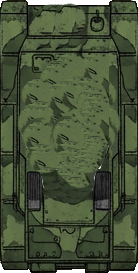
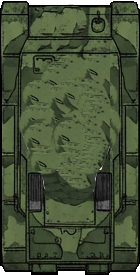
working on updating tank visuals

diff --git a/src/GameDemo/RTSDemo/Units/TankUnit.java b/src/GameDemo/RTSDemo/Units/TankUnit.java
@@ -40,7 +40,7 @@ public class TankUnit extends RTSUnit {
     public static double speed = RTSGame.tickAdjust(2.15);
 
     public Turret turret;
-    public final static double VISUAL_SCALE = 1.10;
+    public final static double VISUAL_SCALE = .4;
     public long weaponCooldownExpiresAtTick = 0;
     public long lastTickTakenDamage = 0;
     public boolean sandbagActive = false;
@@ -110,8 +110,8 @@ public class TankUnit extends RTSUnit {
         deathShadow = new Sprite(RTSAssetManager.tankDeadHullShadow);
         deathFadeout = Sequence.createFadeout(RTSAssetManager.tankDeadHullShadow, 40);
         deathFadeout.setSignature("fadeout");
-        shadow = new Sprite(RTSAssetManager.tankShadow);
-        turretShadow = new Sprite(RTSAssetManager.tankTurretShadow);
+        shadow = Sprite.generateShadowSprite(RTSAssetManager.tankChasis, .8); // new Sprite(RTSAssetManager.tankShadow);
+        turretShadow = Sprite.generateShadowSprite(RTSAssetManager.tankTurret, .8); // new Sprite(RTSAssetManager.tankTurretShadow);
 
         tankHullDamagedGreen = new Sprite(RTSAssetManager.tankHullDamaged);
         tankTurretDamagedGreen = new Sprite(RTSAssetManager.tankTurretDamaged);
@@ -136,6 +136,16 @@ public class TankUnit extends RTSUnit {
         sandbagDamagedSprite = new Sprite(RTSAssetManager.sandbagsForTankDamaged, "sandbagsForTankDamaged");
         
         sandbagShadow = Sprite.generateShadowSprite(RTSAssetManager.sandbagsForTank, .7);
+        
+        shadow.applyAlphaEdgeBlurSelf(8);
+        turretShadow.applyAlphaEdgeBlurSelf(3);
+        chasisSpriteGreen.applyAlphaEdgeBlurSelf(1);
+        chasisSpriteRed.applyAlphaEdgeBlurSelf(1);
+        turretSpriteGreen.applyAlphaEdgeBlurSelf(1);
+        turretSpriteRed.applyAlphaEdgeBlurSelf(1);
+        turretFireAnimationGreen.applyAlphaEdgeBlurSelf(1);
+        turretFireAnimationRed.applyAlphaEdgeBlurSelf(1);
+
 
         List.of(
                 deathShadow,
@@ -152,9 +162,6 @@ public class TankUnit extends RTSUnit {
 
     @Override
     public void onAnimationCycle() {
-        if ("tankDeathAniHull".equals(getGraphic().getSignature())) {
-            this.setGraphic(rubbleHullSprite);
-        }
         if ("fadeout".equals(getGraphic().getSignature())) {
             this.isInvisible = true;
         }
@@ -216,13 +223,13 @@ public class TankUnit extends RTSUnit {
     @Override
     public int getWidth() {
         // consistent width so that width is not tied to animation frame
-        return chasisSpriteGreen.getWidth();
+        return (int)(chasisSpriteGreen.getWidth() * VISUAL_SCALE);
     }
 
     @Override
     public int getHeight() {
         // consistent height so that width is not tied to animation frame
-        return chasisSpriteGreen.getHeight();
+        return (int)(chasisSpriteGreen.getHeight() * VISUAL_SCALE);
     }
 
     /*
@@ -247,6 +254,8 @@ public class TankUnit extends RTSUnit {
         isSolid = true;
         preventOverlap = true;
         setScale(VISUAL_SCALE);
+        turretShadow.scaleTo(VISUAL_SCALE);
+        shadow.scaleTo(VISUAL_SCALE);
         Sprite chassSprite = getHullSprite();
         this.setGraphic(chassSprite);
         this.movementType = MovementType.RotationBased;
@@ -257,6 +266,7 @@ public class TankUnit extends RTSUnit {
         this.currentHealth = maxHealth;
         this.baseSpeed = speed;
         initializeButtons();
+        this.rotationSpeed = RTSGame.tickAdjust(2);
     }
 
     private void initializeButtons() {
@@ -371,7 +381,6 @@ public class TankUnit extends RTSUnit {
             if (isRubble) {
                 setGraphic(rubbleTurretSprite);
             }
-
         }
 
         //tank turret tick
@@ -405,7 +414,7 @@ public class TankUnit extends RTSUnit {
                 }
             } else {
                 double desiredRotation = rotationNeededToFace(enemy.getPixelLocation());
-                double maxRotation = RTSGame.tickAdjust(5);
+                double maxRotation = RTSGame.tickAdjust(2);
                 if (Math.abs(desiredRotation) < maxRotation) {
                     rotate(desiredRotation);
                 } else {
@@ -428,8 +437,8 @@ public class TankUnit extends RTSUnit {
                 VolatileImage toRender = turretShadow.getCurrentVolatileImage();
                 int renderX = getPixelLocation().x - toRender.getWidth() / 2;
                 int renderY = getPixelLocation().y - toRender.getHeight() / 2;
-                int shadowOffsetY = 3;
-                int shadowOffsetX = 1;
+                int shadowOffsetY = 4;
+                int shadowOffsetX = 2;
                 g.rotate(Math.toRadians(getRotationRealTime()), getPixelLocation().x + shadowOffsetX, getPixelLocation().y + shadowOffsetY);
                 g.drawImage(toRender, renderX, renderY + shadowOffsetY, null);
                 g.setTransform(old);
@@ -487,8 +496,8 @@ public class TankUnit extends RTSUnit {
         this.team = -1;
         this.setBaseSpeed(0);
         this.setDesiredLocation(this.getPixelLocation());
-        this.setGraphic(deathAnimationHull.copyMaintainSource());
-        turret.setGraphic(deathAnimationTurret.copyMaintainSource());
+        this.setGraphic(rubbleHullSprite);
+        turret.setGraphic(rubbleTurretSprite);
         if(isOnScreen()) {
             RTSSoundManager.get().play(RTSSoundManager.TANK_DEATH, Main.generateRandomDoubleLocally(.62, .66), 0);
         }

diff --git a/src/Framework/GraphicalAssets/Graphic.java b/src/Framework/GraphicalAssets/Graphic.java
@@ -18,6 +18,8 @@ import java.awt.Transparency;
 import java.awt.geom.AffineTransform;
 import java.awt.image.AffineTransformOp;
 import java.awt.image.BufferedImage;
+import java.awt.image.ConvolveOp;
+import java.awt.image.Kernel;
 import java.awt.image.VolatileImage;
 import java.io.File;
 import java.io.IOException;
@@ -120,7 +122,9 @@ public interface Graphic {
     public void setOpacity(double input);
     
     public double getOpacity();
-
+    
+    /* blurs the transparent bits and edges of image */
+    public void applyAlphaEdgeBlurSelf (int strength);
     
     /**
      * returns a scaled copy of the image
@@ -336,4 +340,68 @@ public interface Graphic {
         }
 
     }
+    
+    
+    
+    private static float[] createGaussianKernel(int radius) {
+        int size = radius * 2 + 1;
+        float[] data = new float[size * size];
+
+        float sigma = radius / 2f;
+        float sum = 0f;
+        int index = 0;
+
+        for (int y = -radius; y <= radius; y++) {
+            for (int x = -radius; x <= radius; x++) {
+                float value = (float) Math.exp(-(x * x + y * y) / (2 * sigma * sigma));
+                data[index++] = value;
+                sum += value;
+            }
+        }
+
+        // Normalize kernel
+        for (int i = 0; i < data.length; i++) {
+            data[i] /= sum;
+        }
+
+        return data;
+    }
+    
+       public static BufferedImage applyAlphaEdgeBlur(BufferedImage input, int strength) {
+
+        if (strength <= 0) return input;
+
+        int padding = strength;
+        int newW = input.getWidth() + padding * 2;
+        int newH = input.getHeight() + padding * 2;
+
+        
+        BufferedImage expanded = new BufferedImage(
+                newW,
+                newH,
+                BufferedImage.TYPE_INT_ARGB
+        );
+
+        Graphics2D g = expanded.createGraphics();
+        g.drawImage(input, padding, padding, null);
+        g.dispose();
+
+        int size = strength * 2 + 1;
+        float[] data = createGaussianKernel(strength);
+
+        Kernel kernel = new Kernel(size, size, data);
+
+        ConvolveOp op = new ConvolveOp(kernel, ConvolveOp.EDGE_ZERO_FILL, null);
+
+        BufferedImage blurred = new BufferedImage(
+                newW,
+                newH,
+                BufferedImage.TYPE_INT_ARGB
+        );
+
+        op.filter(expanded, blurred);
+
+        return blurred;
+    }
+
 }

diff --git a/src/GameDemo/RTSDemo/RTSAssetManager.java b/src/GameDemo/RTSDemo/RTSAssetManager.java
@@ -147,25 +147,25 @@ public abstract class RTSAssetManager {
 
     private static CompletableFuture<Void> loadTankAssets() {
         return CompletableFuture.runAsync(() -> {
-            tankChasis = load("DemoAssets/TankGame/tank1-hull.png");
+            tankChasis = load("DemoAssets/TankGame/newTank/newHull2.png");
             tankChasisRed = greenToRed(tankChasis);
-            tankTurret = load("DemoAssets/TankGame/tank1-turret.png");
+            tankTurret = load("DemoAssets/TankGame/newTank/newTurret.png");
             tankTurretRed = greenToRed(tankTurret);
             tankTurretShadow = load("DemoAssets/TankGame/tank1-turret-shadow.png");
-            tankFireAnimation = loadSequence("DemoAssets/TankGame/tank1Fire");
+            tankFireAnimation = loadSequence("DemoAssets/TankGame/newTank/fireAnimation");
             tankFireAnimationRed = greenToRed(tankFireAnimation);
             bullet = load("DemoAssets/TankGame/bullet.png");
             bullet2 = load("DemoAssets/TankGame/bullet2.png");
-            tankDeadHull = load("DemoAssets/TankGame/destroyedHull.png");
             tankDeadHullShadow = load("DemoAssets/TankGame/destroyedHullShadow.png");
             tankShadow = load("DemoAssets/TankGame/tankShadow.png");
-            tankHullDamaged = load("DemoAssets/TankGame/tankHullDamaged.png");
+            tankHullDamaged = load("DemoAssets/TankGame/newTank/newHull2Damaged.png");
             tankHullDamagedRed = greenToRed(tankHullDamaged);
-            tankTurretDamaged = load("DemoAssets/TankGame/tankTurretDamaged.png");
+            tankTurretDamaged = load("DemoAssets/TankGame/newTank/newTurretDamaged.png");
             tankTurretDamagedRed = greenToRed(tankTurretDamaged);
             tankFireAnimationDamaged = loadSequence("DemoAssets/TankGame/tank1FireDamaged");
             tankFireAnimationDamagedRed = greenToRed(tankFireAnimationDamaged);
-            tankDeadTurret = load("DemoAssets/TankGame/destroyedTurret.png");
+            tankDeadTurret = load("DemoAssets/TankGame/newTank/newTurretRubble.png");
+            tankDeadHull = load("DemoAssets/TankGame/newTank/newHullRubble.png");
             tankHullDeathAni = loadSequence("DemoAssets/TankGame/tankHullDeath");
             tankTurretDeathAni = loadSequence("DemoAssets/TankGame/tankTurretDeath");
             sandbagsForTank = load("DemoAssets/TankGame/sandbagsForTank.png");

diff --git a/src/GameDemo/RTSDemo/AssetExporter.java b/src/GameDemo/RTSDemo/AssetExporter.java
@@ -1,6 +1,6 @@
 package GameDemo.RTSDemo;
 
-import static Framework.GraphicalAssets.Graphic.load;
+import Framework.PathingLayer;
 import javax.imageio.ImageIO;
 import java.awt.image.BufferedImage;
 import java.io.File;
@@ -12,7 +12,11 @@ public class AssetExporter {
         // Main method can be used to test the exportImages function
         System.out.println("Asset Exporter initialized.");
         BufferedImage[] arr = new BufferedImage[1];
-        arr[0] = RTSAssetManager.removeGreenOutright(load("heli.png"));
+        // arr[0] = RTSAssetManager.removeGreenOutright(load("heli.png"));
+        RTSAssetManager.initialize();
+        PathingLayer pl = new PathingLayer(RTSAssetManager.rtsPathing);
+        pl.internalizeSource();
+        arr[0] = pl.getSource();
         exportImages(arr, "export");
     }
 

diff --git a/src/GameDemo/RTSDemo/RTSUnit.java b/src/GameDemo/RTSDemo/RTSUnit.java
@@ -110,7 +110,7 @@ public class RTSUnit extends GameObject2 {
     @Override
     public void render(Graphics2D g) {
         super.render(g);
-        g.drawString(commandGroup.equals("0") ? "" : commandGroup, getPixelLocation().x, getPixelLocation().y);
+        // g.drawString(commandGroup.equals("0") ? "" : commandGroup, getPixelLocation().x, getPixelLocation().y);
         // g.drawString(getCurrentTerrain().name + " " + pathingModifiers.get(getCurrentTerrain()), getPixelLocation().x + 25, getPixelLocation().y);
         if (isRubble) {
             return;

diff --git a/src/GameDemo/RTSDemo/InfoPanelEffect.java b/src/GameDemo/RTSDemo/InfoPanelEffect.java
@@ -81,7 +81,7 @@ public class InfoPanelEffect extends IndependentEffect {
         }
     }
     
-    private void updateSelectedUnits () {
+    private synchronized void updateSelectedUnits () {
         selectedUnits = new ArrayList<>(SelectionBoxEffect.selectedUnits.stream().filter(
                 u -> !u.isRubble && u.isAlive() && (!ExternalCommunicator.isMultiplayer || u.team == ExternalCommunicator.localTeam)).toList()
         );

diff --git a/src/Framework/Game.java b/src/Framework/Game.java
@@ -498,7 +498,7 @@ public class Game implements Runnable {
      * applies java graphics rendering hints
      * @param g2d graphics obj
      */
-    private void applyRenderingHints(Graphics2D g2d) {
+    public static void applyRenderingHints(Graphics2D g2d) {
          if (Main.renderingHintSetter != null) {
             Main.renderingHintSetter.accept(g2d);
         } else {

diff --git a/src/Framework/GraphicalAssets/Sequence.java b/src/Framework/GraphicalAssets/Sequence.java
@@ -503,6 +503,14 @@ public class Sequence implements Graphic{
     public double getOpacity() {
         return opacity;
     }
+    
+    
+    @Override
+    public void applyAlphaEdgeBlurSelf (int strength) {
+        for(Sprite s : frames) {
+            s.applyAlphaEdgeBlurSelf(strength);            
+        }
+    }
 
     
 }

diff --git a/src/Framework/GraphicalAssets/Sprite.java b/src/Framework/GraphicalAssets/Sprite.java
@@ -234,6 +234,12 @@ public class Sprite implements Graphic {
 
         return new Sprite(shadowImage);
     }
+     
+    @Override
+     public void applyAlphaEdgeBlurSelf (int strength) {
+        setImage(Graphic.applyAlphaEdgeBlur(this.image, strength));
+    }
+    
 
     @Override
     public double getOpacity() {

diff --git a/src/GameDemo/RTSDemo/CommandButton.java b/src/GameDemo/RTSDemo/CommandButton.java
@@ -1,7 +1,6 @@
 
 package GameDemo.RTSDemo;
 
-import Framework.Main;
 import java.awt.image.BufferedImage;
 import java.util.ArrayList;
 import java.util.function.Consumer;
